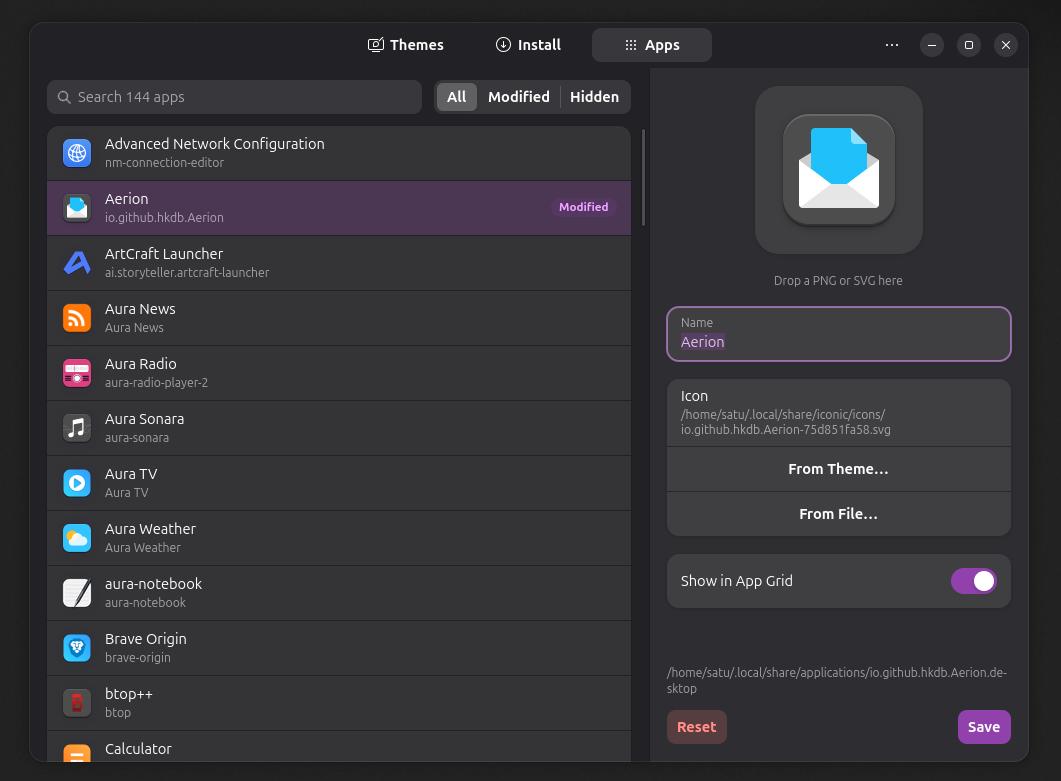
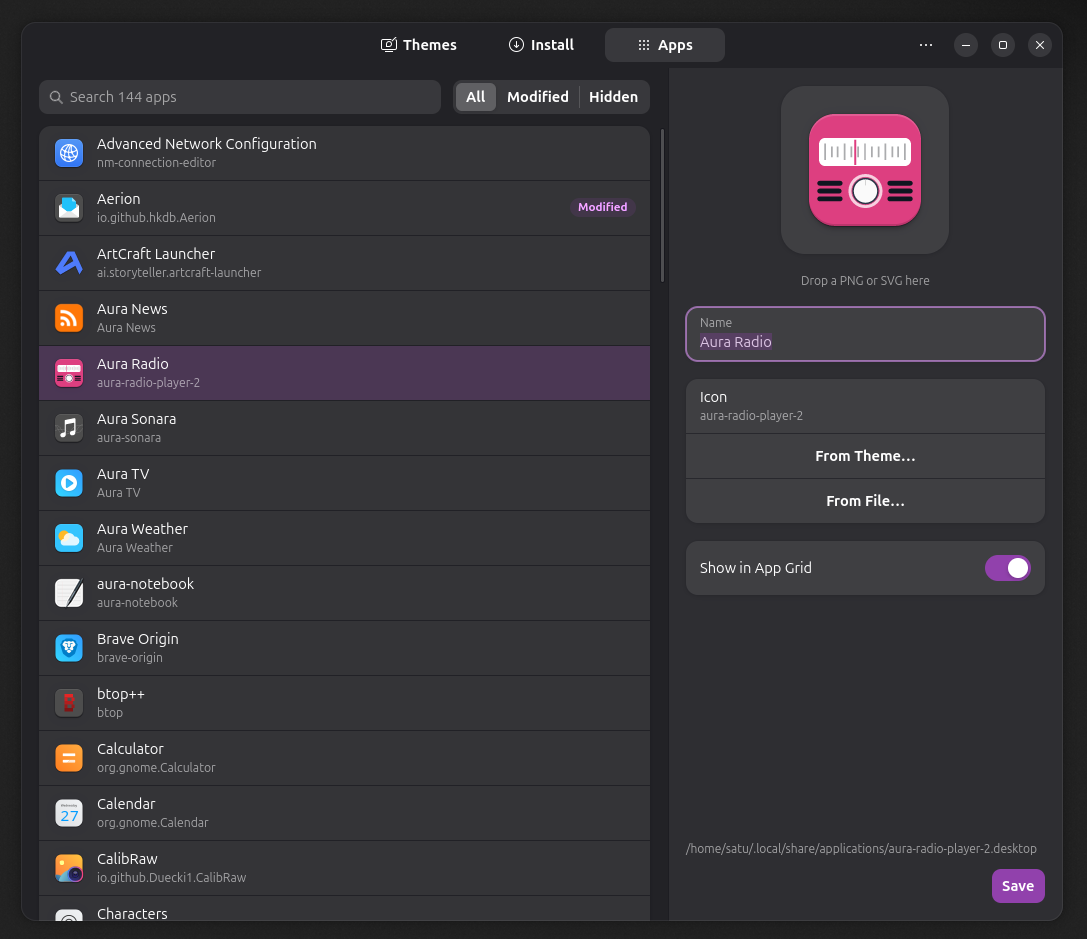
README: rewrite for users, new screenshots

diff --git a/README.md b/README.md
@@ -1,64 +1,97 @@
-# Iconic for GNOME
+# Iconic
 
-Icon themes and app launchers for GNOME. A port of
-[Iconic for Omarchy](https://github.com/UnderStackDev/omarchy_iconic), written in
-Rust with GTK 4 and libadwaita, so it follows your light/dark style and accent
-colour.
+Change your icon theme and tidy up your app grid in GNOME.
 
-![Picking an icon theme](docs/themes.png)
+Iconic shows every icon theme you have side by side, so you can see what they
+look like before you pick one. It also lets you rename apps, give them a
+different icon, or hide the ones you never use. Nothing you change touches
+the apps themselves, and every change can be undone.
 
-- **Themes**: pick the desktop's icon theme from previews of every installed
-  theme. GNOME, GTK and Flatpak apps switch right away.
-- **Install**: drop an icon theme archive or folder anywhere on the window. It
-  lands in `~/.local/share/icons`, where Flatpak apps can see it too.
-- **Apps**: rename a launcher, give it another icon, or hide it from the app
-  grid, without touching the package's own files. The editor sits beside the
-  list; drop a PNG or SVG on it (from Files, say) to use it as the icon.
+Built with GTK 4 and libadwaita, so it fits right in and follows your light or
+dark style and accent colour.
 
-![Changing a launcher](docs/apps.png)
+![Every installed icon theme, side by side](docs/themes.png)
 
-## Why there is no icon layer here
+## Pick an icon theme
 
-Omarchy's launcher doesn't look app icons up in the active theme, so the
-Omarchy version builds an extra icon layer. GNOME Shell's app grid and dash use
-the active theme directly, so this version doesn't need one. PNG themes such as
-Yaru work as they are.
+Open **Themes** and click the one you like. GNOME, your apps and Flatpak apps
+switch to it straight away. Type to search when the list gets long.
 
-The Omarchy version's Follow/Lock mode is left out too: GNOME has no Omarchy
-theme switch to follow.
+## Install new themes
+
+Downloaded a theme from [GNOME Look](https://www.gnome-look.org/browse?cat=132)
+or GitHub? Drop the archive (`.zip`, `.tar.gz`, `.tar.xz`…) or the unpacked
+folder anywhere on the window, or open **Install** and choose the files. Iconic
+finds the themes inside, installs them for you only, and offers to switch to
+the new one.
+
+![Installing a theme](docs/install.png)
+
+Themes you installed can be removed from the Themes page with the trash button
+that appears when you hover over a card.
+
+## Change how apps look in the app grid
+
+Open **Apps** and pick an app from the list. On the right you can:
+
+- **Rename it**: type a new name.
+- **Give it another icon**: drag a PNG or SVG straight from Files onto the
+  icon, choose one from your current theme, or pick a file.
+- **Hide it**: turn off *Show in App Grid*.
+
+Press **Save** and the app grid updates. Use the *Modified* and *Hidden*
+filters to find what you've changed, and **Reset** to put an app back the way
+it was.
+
+![Editing an app](docs/apps.png)
+
+Handy tip: keep a theme's folder open in Files next to Iconic and drag icons
+across one after another.
 
 ## Install
 
+### Ubuntu and Debian
+
+Download the `.deb` from the
+[latest release](https://github.com/UnderStackDev/gnome_iconic/releases/latest)
+and run:
+
 ```sh
-cargo build --release
-cargo deb --no-build          # target/debian/iconic_*.deb
-cargo generate-rpm            # target/generate-rpm/iconic-*.rpm
-sudo apt install ./target/debian/iconic_*.deb
+sudo apt install ./iconic_*_amd64.deb
 ```
 
-Runtime needs: GTK 4, libadwaita 1.8, `bsdtar` (`libarchive-tools` on
-Ubuntu), `gtk-update-icon-cache`, `update-desktop-database`.
+### Fedora
 
-## Keys
+Download the `.rpm` from the
+[latest release](https://github.com/UnderStackDev/gnome_iconic/releases/latest)
+and run:
+
+```sh
+sudo dnf install ./iconic-*.x86_64.rpm
+```
+
+Iconic needs GTK 4.18 and libadwaita 1.8 or newer (Ubuntu 25.10, Fedora 43
+and later).
+
+## Keyboard shortcuts
 
 | Key | Action |
 |---|---|
-| `1` `2` `3` (or `Alt` + number) | Themes, Install, Apps |
-| Arrows, `Enter` / `Space` | Pick and use a theme |
+| `1` `2` `3` | Themes, Install, Apps |
+| Arrows, `Enter` | Pick and use a theme |
 | `Ctrl+F` or `/` | Search |
 | `Delete` | Remove the picked theme you installed |
 | `Ctrl+O` | Choose theme files to install |
-| `Enter` | Edit the picked app's name (Apps) |
-| `I` | Pick an icon from the theme (Apps) |
-| `Ctrl+S` | Save the launcher (Apps) |
-| `Ctrl+Z` / `Ctrl+Shift+Z` | Undo / redo launcher changes |
-| `Ctrl+?` | All keys |
-| `Ctrl+Q` | Quit |
+| `Enter` | Rename the picked app |
+| `I` | Pick an icon from the theme |
+| `Ctrl+S` | Save the app |
+| `Ctrl+Z` / `Ctrl+Shift+Z` | Undo / redo |
+| `Ctrl+?` | All shortcuts |
 
 ## Command line
 
-Everything also works without the window. Every command takes `--json` and
-exits 0 or 1.
+Everything also works from a terminal, for scripts and dotfiles. Add `--json`
+for machine-readable output.
 
 ```sh
 iconic status
@@ -70,28 +103,44 @@ iconic app set firefox --name "Web" --icon web-browser [--hide|--show]
 iconic app reset firefox
 ```
 
-## What it changes
+## What Iconic changes on your system
+
+Only files in your home folder; nothing needs administrator rights.
 
 | Where | What |
 |---|---|
-| gsettings `org.gnome.desktop.interface icon-theme` | the icon theme (GNOME, GTK, and Flatpak apps through the settings portal) |
-| `~/.config/gtk-3.0/settings.ini`, `gtk-4.0/settings.ini`, `kdeglobals`, `qt5ct`/`qt6ct` | the same theme name, only if the file already exists |
+| GNOME setting `org.gnome.desktop.interface icon-theme` | the icon theme |
+| `~/.config/gtk-3.0`, `gtk-4.0`, `kdeglobals`, `qt5ct`, `qt6ct` | the same theme name, only if these files already exist |
 | `~/.local/share/icons/` | themes you install |
-| `~/.local/share/applications/` | launcher changes: a copy marked `X-Iconic-Override=true` for package and Flatpak apps; your own launchers are edited in place after a backup in `~/.local/share/iconic/backups/` |
-| `~/.local/share/iconic/icons/` | icon files you picked for launchers |
+| `~/.local/share/applications/` | your app changes, as a personal copy of the app's launcher |
+| `~/.local/share/iconic/` | icons you picked from files, and backups |
 
-Archives are listed before they're unpacked (2 GiB / 300,000 files at most),
-unpacked by bsdtar, and only files and links that stay inside the archive are
-installed.
+Theme archives are checked before they're unpacked (2 GiB / 300,000 files at
+most), and only files that stay inside the theme are installed.
 
-## Development
+## Building from source
 
 ```sh
-cargo test
-cargo run
-# Debug builds can render the window to a PNG (Wayland blocks screen grabs):
+cargo build --release
+cargo deb --no-build          # target/debian/iconic_*.deb
+cargo generate-rpm            # target/generate-rpm/iconic-*.rpm
+```
+
+Needs Rust, GTK 4 and libadwaita development files. At runtime Iconic uses
+`bsdtar` (`libarchive-tools` on Ubuntu), `gtk-update-icon-cache` and
+`update-desktop-database`.
+
+For development, `cargo test` and `cargo run`. Debug builds can render the
+window to a PNG, since Wayland blocks screen grabs:
+
+```sh
 ICONIC_SNAPSHOT=/tmp/shot.png ICONIC_SNAPSHOT_PAGE=apps cargo run
 ```
+
+## Also for Omarchy
+
+Iconic started on Omarchy. That version lives at
+[UnderStackDev/omarchy_iconic](https://github.com/UnderStackDev/omarchy_iconic).
 
 ## License
 
